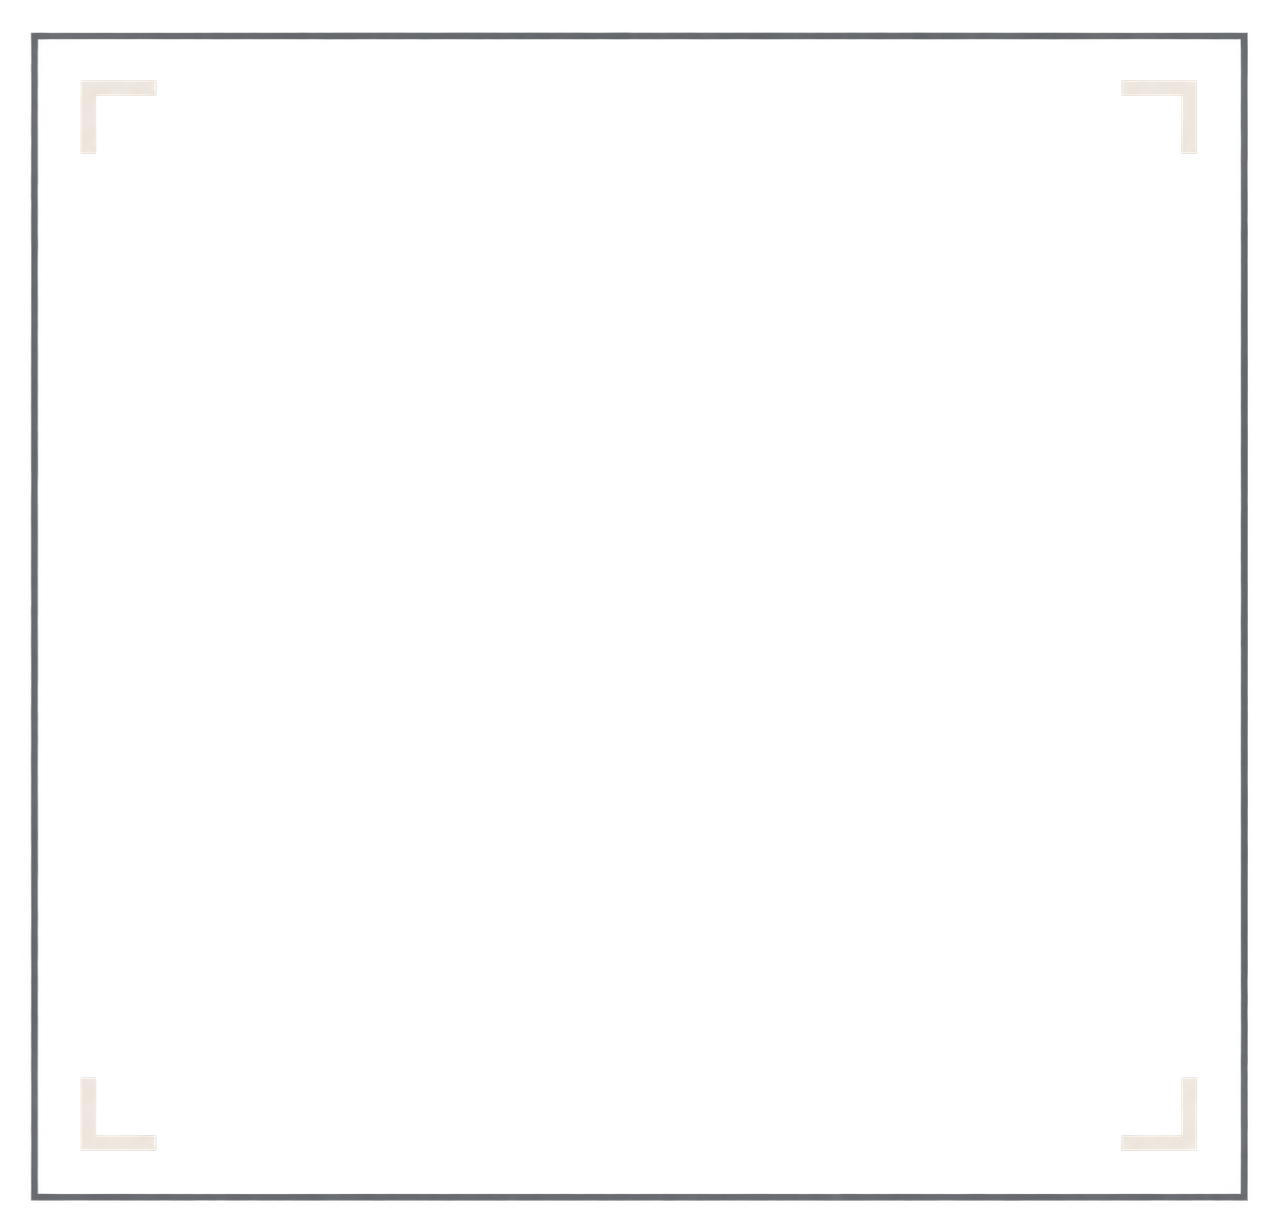
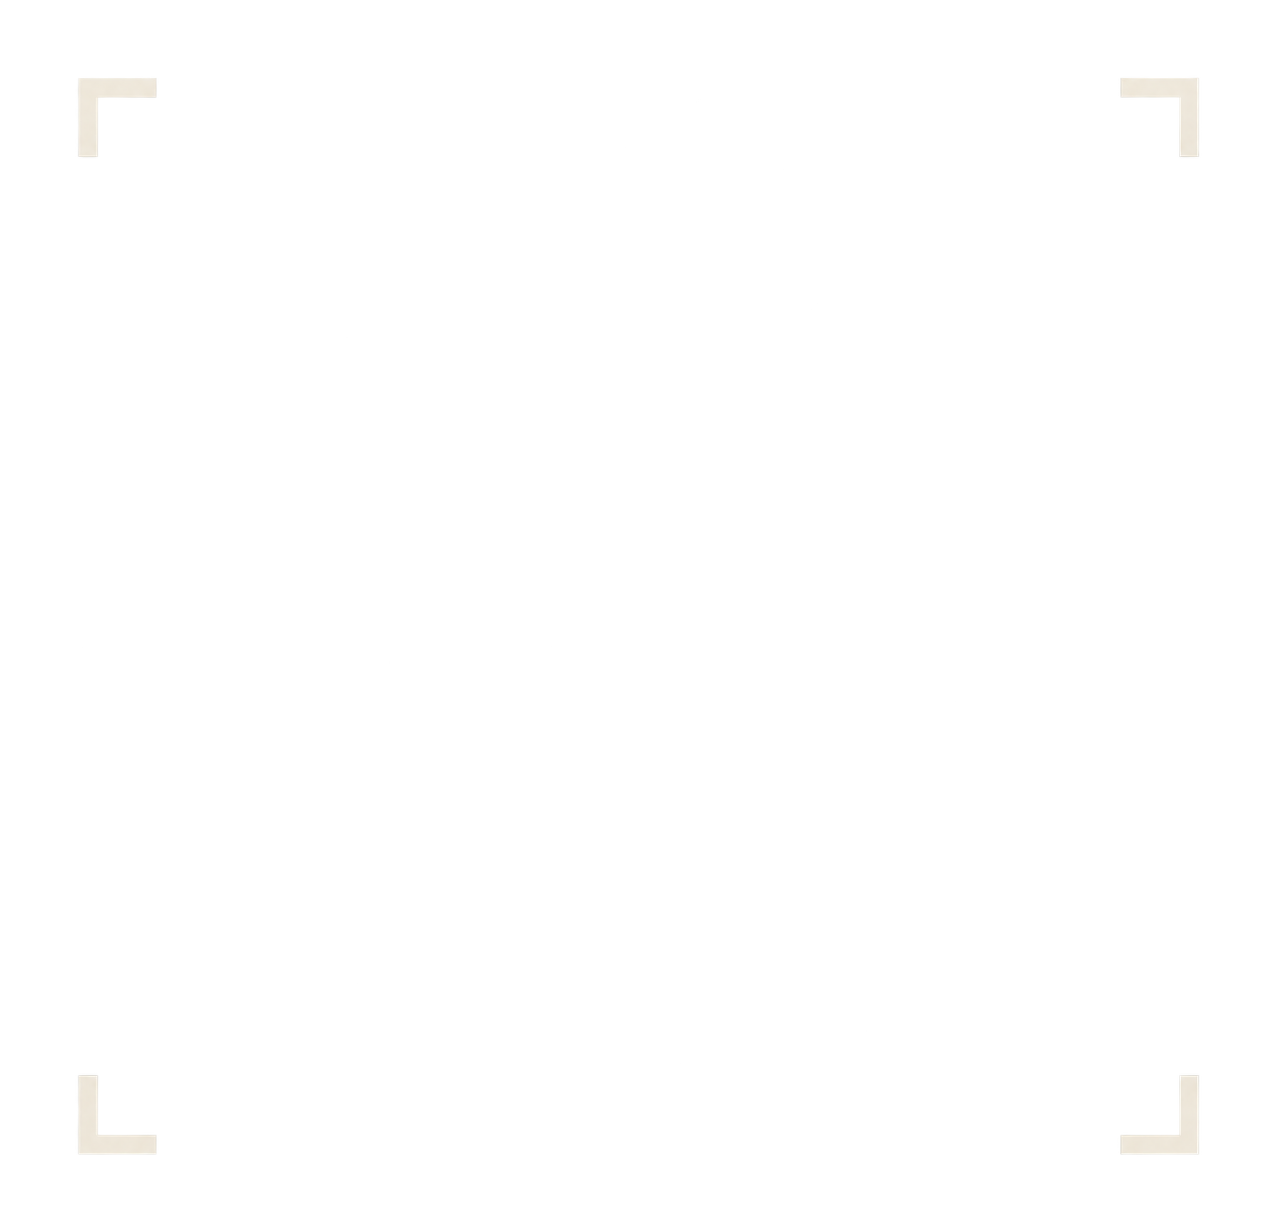
Match terminal type proportions and refine camera frame after visual comparison

Changed region(s): [[0.0, 0.0, 0.9773, 0.987]]

diff --git a/src/styles.css b/src/styles.css
@@ -44,12 +44,12 @@
 .scan-demo{font-family:ScanSans,-apple-system,BlinkMacSystemFont,'PingFang SC','Microsoft YaHei',sans-serif;position:absolute;inset:0;z-index:30;container-type:inline-size;display:flex;flex-direction:column;gap:12px;padding:14px 30px 26px;background:#0a0e10 var(--terminal-texture) center/cover;color:#f1eee6;--scan-blue:#37b7ed}
 .scan-brand{height:24px;flex-shrink:0;display:flex;align-items:center;gap:6px;font-size:19px;font-weight:700;line-height:1}
 .scan-brand img{width:24px;height:29px;object-fit:contain}.scan-brand small{margin-left:auto;font-family:monospace;font-size:12px;font-weight:400;letter-spacing:.27em;color:#aaaeb0}
-.scan-title{display:flex;align-items:center;gap:10px;flex-shrink:0;height:calc(28cqw * .8)}
-.scan-title-word{font-family:TerminalDisplay,Impact,sans-serif;font-size:28cqw;font-weight:400;line-height:.8;letter-spacing:-.025em}
+.scan-title{display:flex;align-items:center;gap:10px;flex-shrink:0;margin-left:-18px;height:calc(28cqw * .8)}
+.scan-title-word{font-family:TerminalDisplay,Impact,sans-serif;font-size:23cqw;font-weight:400;line-height:.8;align-self:flex-start;letter-spacing:-.025em}
 .scan-warning{width:12px;height:84%;flex-shrink:0;background:#f2532e;color:#101113;display:flex;flex-direction:column;justify-content:space-between;align-items:center;padding:4px 0}
 .scan-warning svg:first-child{width:10px;height:12px}.scan-warning svg:last-child{width:12px;height:24px}
 .scan-focus{width:clamp(43px,17cqw,62px);height:auto;margin-left:6px;padding-left:10px;border-left:1px solid #6d7374}
-.scanner-camera{position:relative;flex:1;min-height:140px;isolation:isolate;background:#242a2e;border-radius:0;margin-right:0}
+.scanner-camera{position:relative;flex:1;min-height:140px;isolation:isolate;background:#242a2e;border:1px solid #596265;border-radius:0;margin-right:0}
 .scan-video-window{position:absolute;inset:0;overflow:hidden}
 .scanner-camera canvas{display:block;width:100%;height:100%;position:absolute;inset:0;image-rendering:auto}
 .scan-corners{position:absolute;inset:0;width:100%;height:100%;object-fit:fill;pointer-events:none;z-index:2}
@@ -59,7 +59,7 @@
 .scan-ruler-light{position:absolute;right:-13px;top:var(--scan-sweep);width:6px;height:3px;background:var(--scan-blue);box-shadow:0 0 9px #37b7ed88;pointer-events:none}
 .scan-controls{flex-shrink:0;margin-top:8px;display:flex;flex-direction:column;gap:13px;min-height:84px}
 .scan-progress-row{display:flex;align-items:center;gap:15px;min-height:64px}
-.scan-percent{font-family:TerminalDisplay,Impact,sans-serif;font-size:20cqw;line-height:1;font-weight:400;letter-spacing:-.04em;white-space:nowrap;min-width:34%}.scan-percent small{font:inherit;font-size:.82em}
+.scan-percent{font-family:TerminalDisplay,Impact,sans-serif;font-size:17cqw;line-height:1;font-weight:400;letter-spacing:-.04em;white-space:nowrap;min-width:34%}.scan-percent small{font:inherit;font-size:.82em}
 .scan-status-copy{padding-left:14px;border-left:1px solid #717775;display:flex;flex-direction:column;gap:5px;min-width:0}
 .scan-status{font-size:21px;font-weight:900;line-height:1.25}
 .scan-help-copy{font-size:13px;color:#b6b9b8;line-height:1.5}
@@ -71,7 +71,7 @@
 .scan-outcome{display:flex;flex-direction:column;gap:5px}.scan-outcome h1{margin:0;font-family:ScanSans,sans-serif;font-size:24px;font-weight:900;line-height:1.25}.scan-outcome span{display:flex;align-items:center;gap:6px;color:#adbdbd;font-size:12px}.scan-outcome svg{color:var(--scan-blue)}
 .scan-enter{width:100%;min-height:44px;border:1px solid #8cceeb;background:#37b7ed;color:#101b21;font-size:17px;font-weight:700;letter-spacing:.08em;border-radius:0}
 .scan-enter:hover{background:#67c9f1}.scan-demo button:focus-visible{outline-color:#fff}
-@media(max-height:650px){.scan-demo{padding:12px 24px 21px;gap:10px}.scan-brand{height:21px;font-size:17px}.scan-brand img{height:25px}.scan-controls{margin-top:5px;gap:10px;min-height:77px}.scan-progress-row{min-height:59px;gap:11px}.scan-status{font-size:18px}.scan-help-copy{font-size:12px}.scan-disclosure{margin-top:5px;font-size:10px;padding-top:9px}.scan-outcome h1{font-size:22px}.scan-recovery button{min-height:36px;font-size:11px}}
+@media(max-width:350px),(max-height:580px){.scan-demo{padding:12px 24px 21px;gap:10px}.scan-brand{height:21px;font-size:17px}.scan-brand img{height:25px}.scan-controls{margin-top:5px;gap:10px;min-height:77px}.scan-progress-row{min-height:59px;gap:11px}.scan-status{font-size:18px}.scan-help-copy{font-size:12px}.scan-disclosure{margin-top:5px;font-size:10px;padding-top:9px}.scan-outcome h1{font-size:22px}.scan-recovery button{min-height:36px;font-size:11px}}
 @media(max-height:480px){.scan-demo{padding:8px 20px 10px;gap:7px}.scan-title{height:48px}.scan-title-word{font-size:60px}.scanner-camera{min-height:80px}.scan-progress-row{min-height:44px}.scan-percent{font-size:44px}.scan-status{font-size:16px}.scan-controls{min-height:62px;gap:6px}.scan-disclosure{padding-top:5px;margin-top:0}}
 @media(prefers-reduced-motion:reduce){.scan-beam,.scan-ruler-light{top:50%!important}}
 

diff --git a/src/ScanDemo.tsx b/src/ScanDemo.tsx
@@ -42,7 +42,7 @@ export default function ScanDemo({profile,camera,facePresent,cameraError,retry,o
   <header className="scan-brand"><img src={base+'media/terminal-mark.webp'} alt=""/><span>抖歪</span><small>LOCAL</small></header>
   <div className="scan-title" aria-hidden="true"><span className="scan-warning"><Warning weight="bold"/><Lightning weight="fill"/></span><span className="scan-title-word">SCAN</span><UserFocus className="scan-focus" weight="thin"/></div>
   <div className="scanner-camera"><div className="scan-video-window"><canvas ref={canvas} width={660} height={900} aria-label="实时摄像头预览"/>{ready&&<img className="scan-corners" src={base+'media/terminal-corners.webp'} alt=""/>}{running&&<img className="scan-beam" src={base+'media/scan-beam.webp'} alt=""/>}<span className="scan-camera-caption">本地实时摄像头</span></div><img className="scan-ruler" src={base+'media/terminal-ruler.webp'} alt=""/>{running&&<span className="scan-ruler-light" aria-hidden="true"/>}</div>
-  <div className={'scan-controls '+((help||cameraError||assetError)&&!running&&!complete?'is-recovery':'')}>
+  <div className="scan-controls">
    {complete?<><div className="scan-outcome"><h1 className="scan-sticker">{label}</h1><span><CheckCircle size={17}/>分区已锁定</span></div><button className="scan-enter" onClick={onContinue}>进入推荐</button></>:<>
     <div className="scan-progress-row"><span className="scan-percent" aria-hidden="true">{Math.round(progress*100)}<small>%</small></span><div className="scan-status-copy"><div className="scan-status" role="status">{status}</div><span className="scan-help-copy">{running?'保持面部在框内':assetError?'请刷新重试':cameraError?'允许摄像头，或跳过扫描':help?'靠近镜头，保持光线充足':'等待检测到人脸'}</span></div></div>
     <div className="scan-progress-area" aria-label="人脸扫描进度" role="progressbar" aria-valuemin={0} aria-valuemax={100} aria-valuenow={Math.round(progress*100)}>{Array.from({length:8},(_,i)=><span key={i} className={progress>i/8?'filled':''}/>)}</div>

diff --git a/design-qa.md b/design-qa.md
@@ -11,3 +11,7 @@ Findings: browser capture and combined reference comparison pending. No completi
 Implementation checklist: pass runtime checks, capture/inspectsame-state reference comparison and focused type/progress/camera regions; fixP0/P1/P2; verifyall4group endings, nofaceloss resets,denial/skip, reduced motion, continuousswipes/messages remain; inspectconsole/missingassets.
 
 final result: blocked
+
+
+Comparison history — iteration1 blocked:
+Combined full/header/controls images saved under outputs/scanner-terminal/comparison-*.png from actual QA_CURRENT_IMAGE in workflow37754936579. Active implementation74% versus reference62%; progress timing and test-face placement not a production classification claim. [P1]displayglyphcaps too tall versus source andSCANstarts about12–18pxtoo far right. Fix: source-matching OswaldBold instead ofAnton, measuredSCANfont76pxbbox167x64vsoldAnton92bbox177x81, keep title-rowheightandbleedwarning18pxleft. [P2]percentage/controlsizes too large/compactheightbreakpoint changes390x634layout. Fix: percent17cqw, compactrulesonlywidth350/height580. [P2]generatedgrayouterframe doubled/thick. Fix: regeneratedonlycornersv2 plusstandard1pxcameraUIborder. QA-onlycenteredfixtureandtimer-pollingfreeze normalize62%/beamphase for same-state capture; production2sgate/camera remains untouched. Re-capture pending; final result remains blocked.
